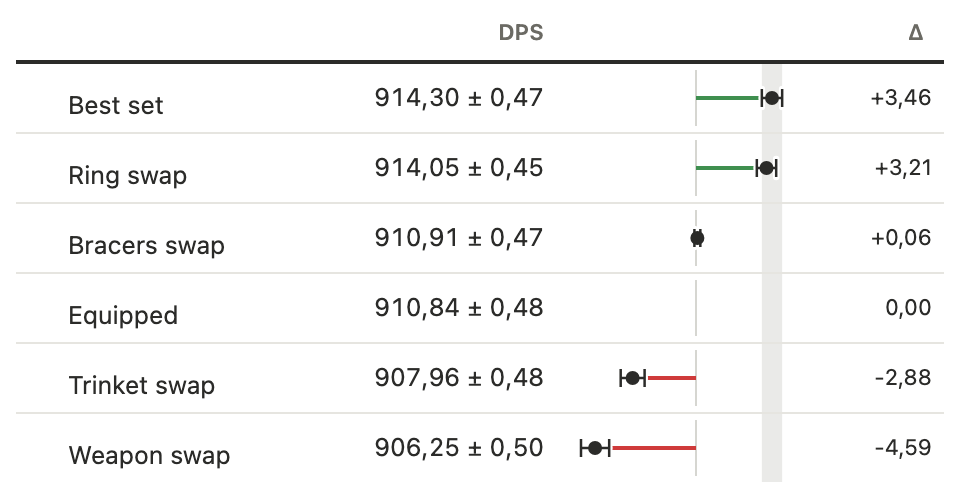
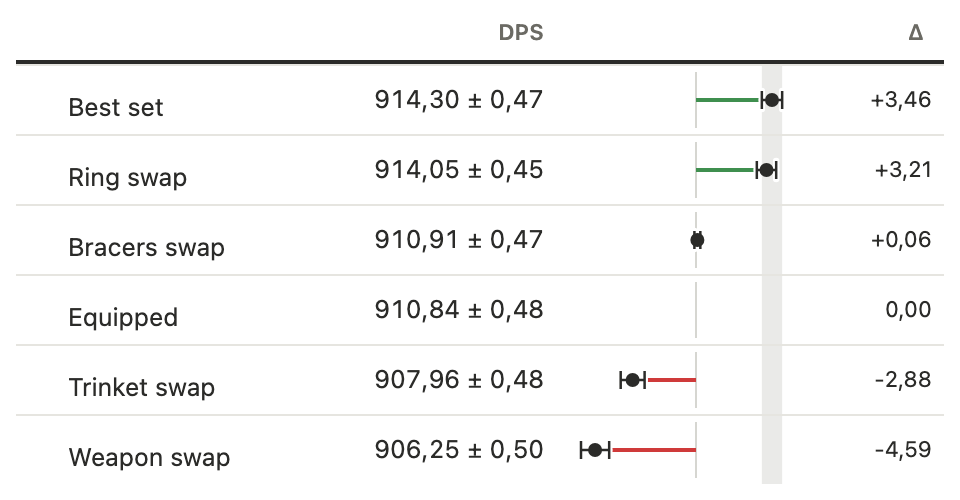
docs: round 2 - corrected claims, re-shot screenshots
- Numbers and words: rounding at 15 significant digits, the four percent
  changes for a format that sets locale (a table), percent digit defaults
  per component, intervals that never read "± 0", the endLabel recipe in
  place of an empty scenario word, the precedence of a scenario baseLabel,
  and ariaLabel with onSelect.
- DataTable, RankingVarianceChart, LineChart and ErrorBar pages: group
  rows, label room, column.format replaces, band captions, the AC label
  gutter, seriesFormat merges, error bars inside a named chart.
- README: the 1.4 claim restricted to formats that set none of the four
  options; ErrorBar wording.
- Bundle-size claims (CONTRIBUTING, getting-started, ci.yml comment,
  verify-treeshake header): about 6 KB gzip for a KpiCard-only bundle.
- Screenshots re-shot from the visual harness: the ranking chart (AC
  labels past their whiskers, full band caption) and both DataTables.

diff --git a/README.md b/README.md
@@ -257,7 +257,7 @@ uncontrolled mode, as observers.
 - **`VarianceBar`** - the standalone variance bar/pin primitive used inside the
   tables and charts.
 - **`ErrorBar`** - value ± half-width as a whisker with caps, horizontal or
-  vertical, for bars and points; the mark names itself with its interval.
+  vertical, for bars and points, with its interval as accessible text and tooltip.
 
 <table>
 <tr>
@@ -482,9 +482,15 @@ import { IbcsThemeProvider, RankingVarianceChart } from "ibcs-react";
 </IbcsThemeProvider>;
 ```
 
-The defaults are 1.4's output, byte for byte. `formatValue`, `formatPercent`
-and `formatInterval` ("910,79 ± 0,76") write your own text the same way, and
-`useIbcsLabels(override?)` gives a custom chart the same words.
+Without `labels`, and with a `format` that sets none of `locale`,
+`fractionDigits`, `percentFractionDigits` and `notAvailable`, the output is
+1.4's, byte for byte. A format that already sets `locale` changes the percent
+labels: the locale's separators, no sign on a rounded zero, ties rounded as the
+number reads, grouping from 1,000 % (see
+[Numbers and words](docs/content/docs/localization.mdx)).
+`formatValue`, `formatPercent` and `formatInterval` ("910,79 ± 0,76") write
+your own text the same way, and `useIbcsLabels(override?)` gives a custom chart
+the same words.
 
 Error bars, value bands and magnitude bars, here in `sr-Latn` with exact
 digits and the caller's words:

diff --git a/CONTRIBUTING.md b/CONTRIBUTING.md
@@ -48,8 +48,8 @@ Before opening a PR, make sure **`npm run ci` and `npm run check-format` pass**.
 `npm run build` is `tsdown` in **unbundle mode** - `dist/` mirrors `src/`, one
 file per module, with the barrels as pure re-exports. That per-module layout is
 what makes the library tree-shake in consumers (one imported `KpiCard` costs
-~4 KB gzip, not the whole library); `scripts/verify-treeshake.mjs` fails the
-build if that regresses. `scripts/postbuild.mjs` then prepends `"use client"`
+about 6 KB gzip, not the whole library); `scripts/verify-treeshake.mjs` fails
+the build if that regresses. `scripts/postbuild.mjs` then prepends `"use client"`
 to the root barrels (`dist/index.js`, `dist/index.cjs`) and every module under
 `dist/react/` so the components work in a Next.js App Router server component.
 `dist/core/*` is left directive-free on purpose - `ibcs-react/core` is pure
